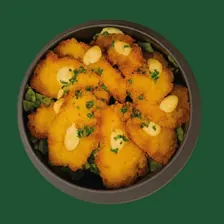
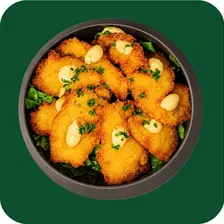
Update photo — Poulet Karaage

diff --git a/src/data/dishImages.ts b/src/data/dishImages.ts
@@ -12,7 +12,7 @@ export const CLIENT_DISH_IMAGES: Record<string, string> = {
   "da996bc4a5": "/menu-hd-onglet2/bouchees-vapeur.png",
 
   // Starters
-  "2501bc64fe": "/starters-hd/poulet-karaage.png",
+  "2501bc64fe": "/starters-hd/poulet-karaage.jpg",
   "228ccfc51d": "/starters-hd/riz-nature.png",
   "4d8b7659dc": "/starters-hd/riz-vinaigre.png",
   "c1d464c327": "/starters-hd/salade-de-choux.png",

diff --git a/src/data/yumloMenu.ts b/src/data/yumloMenu.ts
@@ -136,7 +136,7 @@ export const YUMLO_MENU = [
     "description": "Poulet",
     "priceMAD": "39.00",
     "currency": "MAD",
-    "image": "/starters-hd/poulet-karaage.png"
+    "image": "/starters-hd/poulet-karaage.jpg"
   },
   {
     "id": "c1d464c327",
